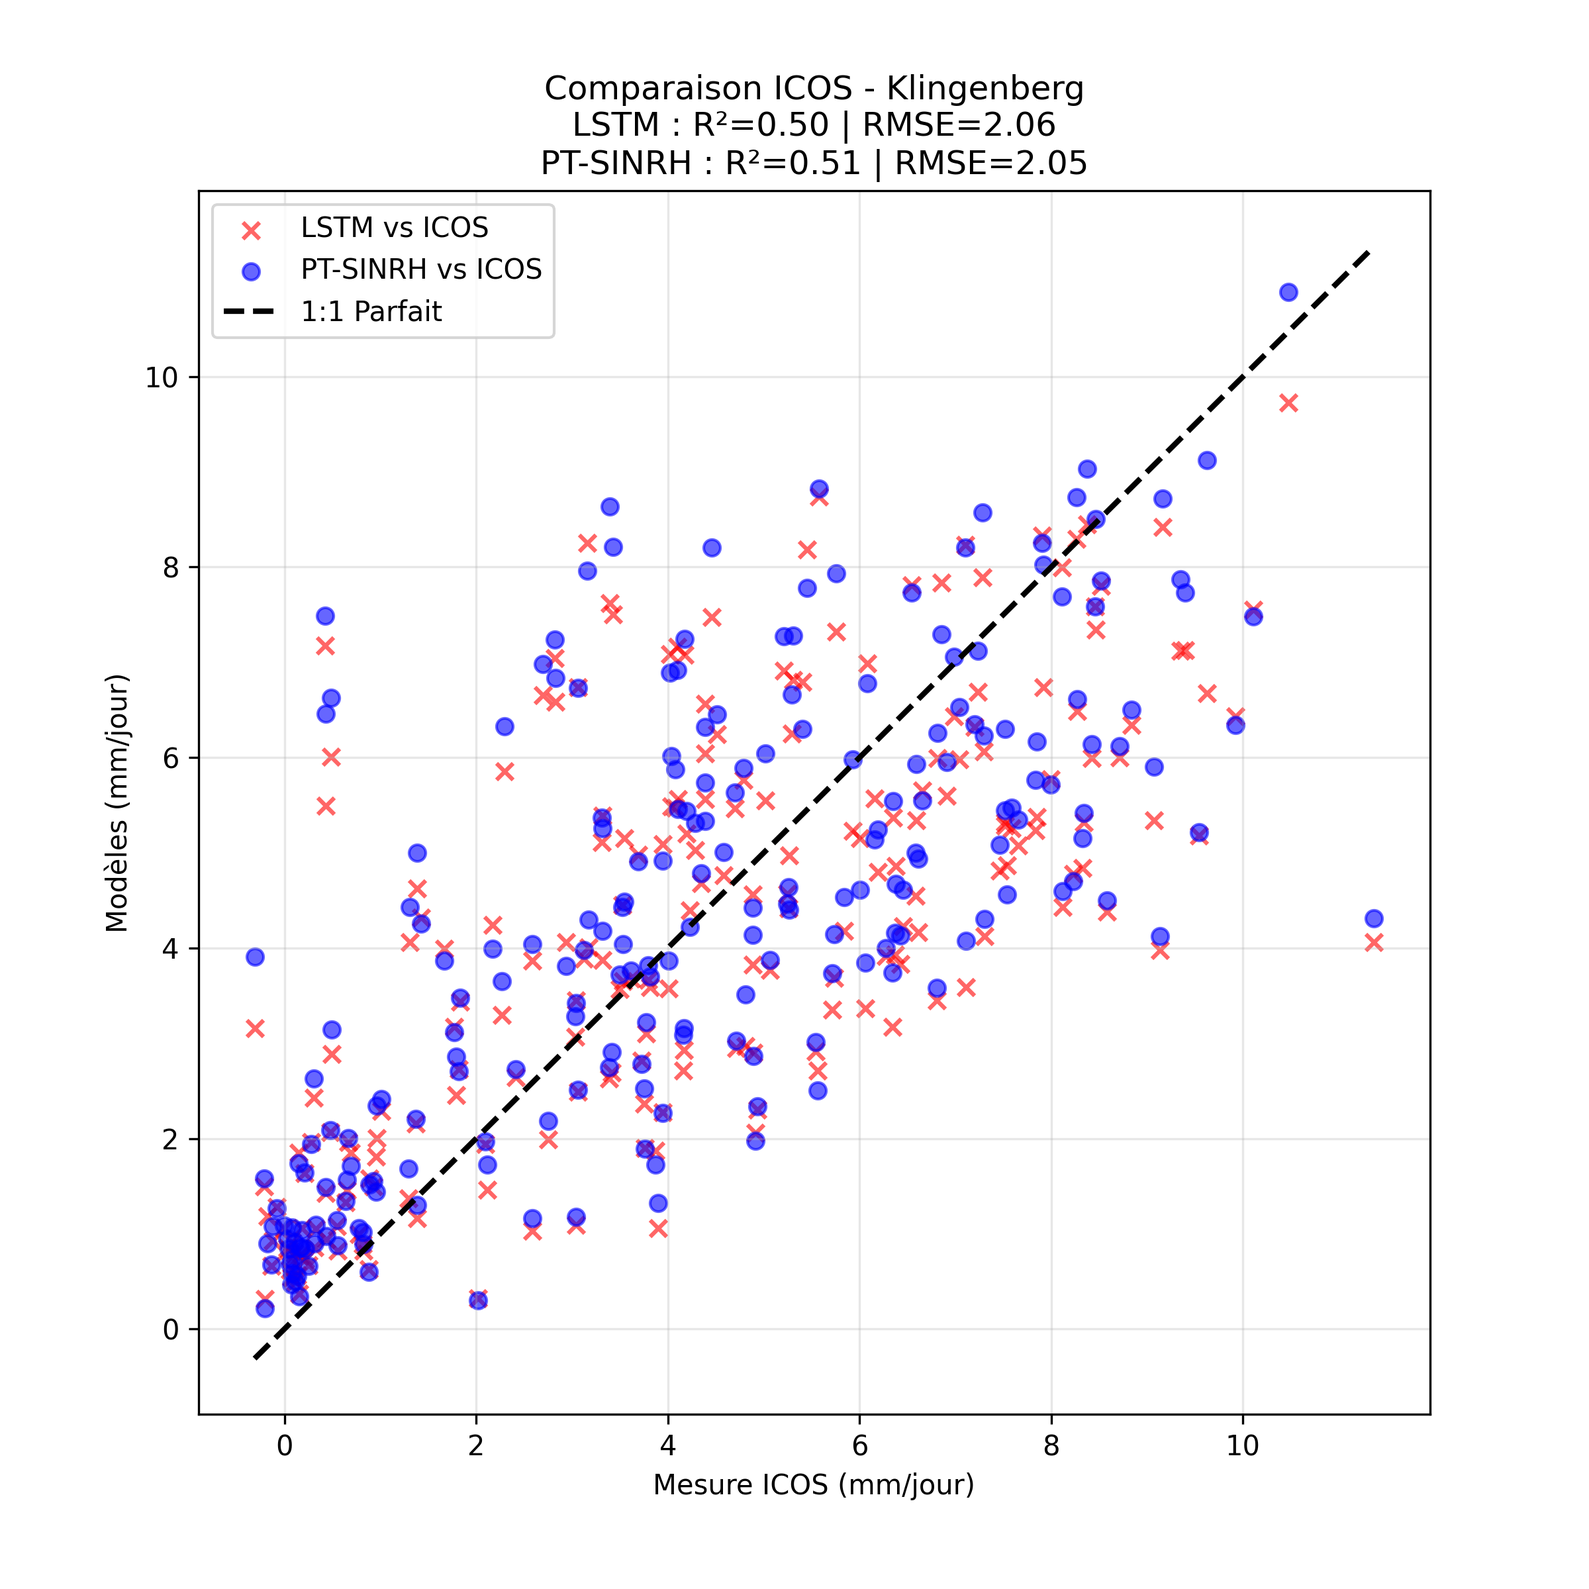
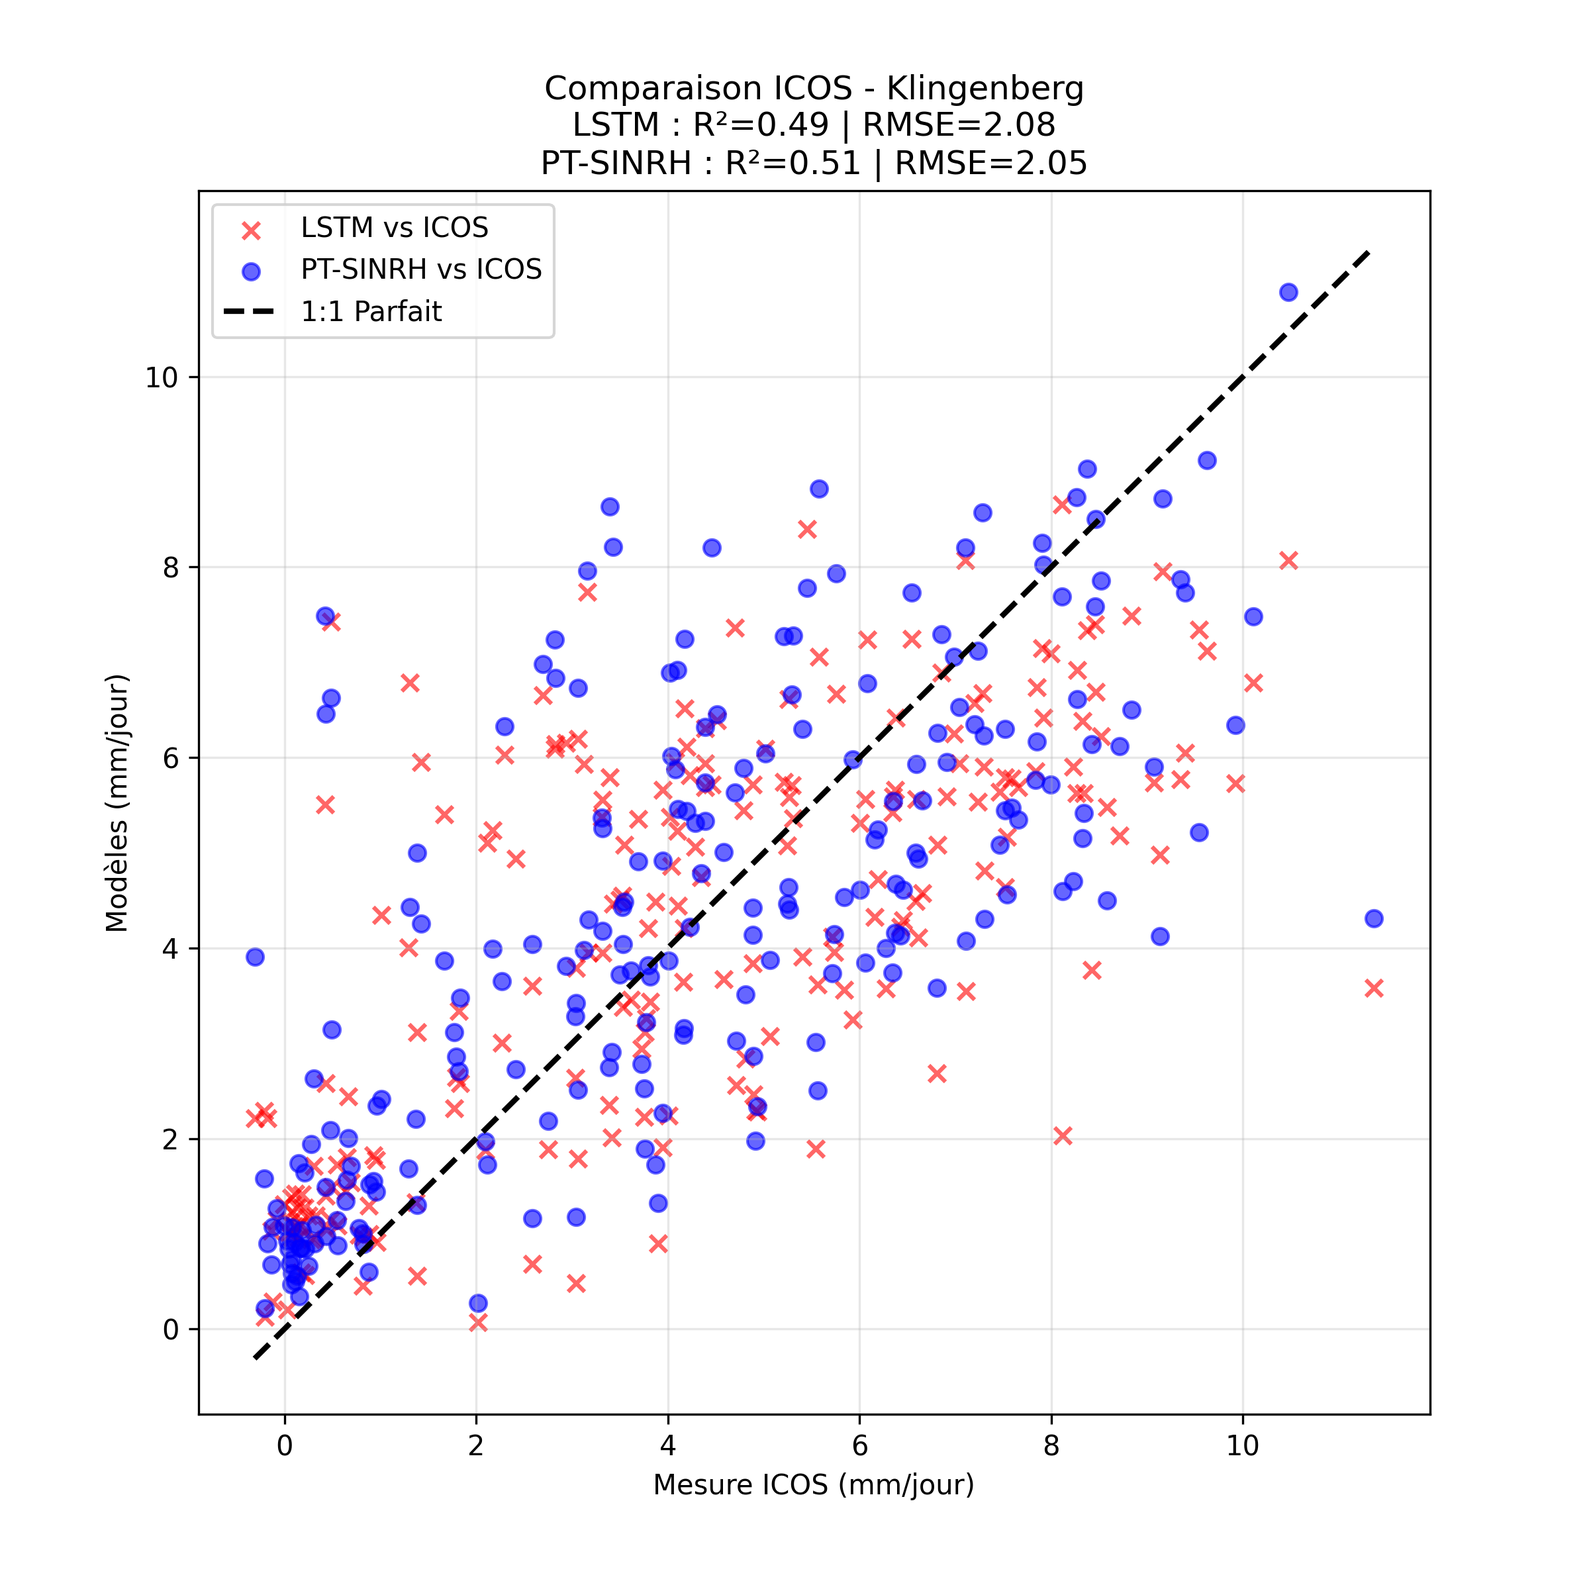
feat: implement LSTM training and evaluation pipeline with automated plotting and configuration updates

diff --git a/Traitement/LSTM_Forecasting/dataset_prep.py b/Traitement/LSTM_Forecasting/dataset_prep.py
@@ -49,7 +49,8 @@ def get_homogeneous_points(ndvi_path, center_r, center_c, num_points):
     variance[center_r, center_c] = np.inf
     
     # 1. On sélectionne un large pool des pixels les plus purs
-    pool_size = max((num_points - 1) * 20, 400)
+    # Tolérance de variance augmentée (pool plus grand)
+    pool_size = max((num_points - 1) * 100, 2000)
     flat_indices = np.argsort(variance, axis=None)[:pool_size]
     
     valid_candidates = []
@@ -113,9 +114,10 @@ def build_continuous_dataset(site, num_points=15, start_year="2021", end_year="2
                 if date_str not in dict_dates: dict_dates[date_str] = {}
                 if "NDVI" in f: dict_dates[date_str]['ndvi'] = os.path.join(tif_folder, f)
                 if "SAVI" in f: dict_dates[date_str]['savi'] = os.path.join(tif_folder, f)
+                if "NDWI" in f: dict_dates[date_str]['ndwi'] = os.path.join(tif_folder, f)
             
-    # Filtre uniquement les jours ayant NDVI ET SAVI
-    valid_dates = {d: p for d, p in dict_dates.items() if 'ndvi' in p and 'savi' in p}
+    # Filtre uniquement les jours ayant NDVI, SAVI et NDWI
+    valid_dates = {d: p for d, p in dict_dates.items() if 'ndvi' in p and 'savi' in p and 'ndwi' in p}
     
     if not valid_dates:
         print(f"[{site}] Attention, aucune donnée satellite trouvée.")
@@ -138,7 +140,7 @@ def build_continuous_dataset(site, num_points=15, start_year="2021", end_year="2
     sparse_data = []
     for date_str, paths in valid_dates.items():
         try:
-            with rasterio.open(paths['ndvi']) as src_ndvi, rasterio.open(paths['savi']) as src_savi:
+            with rasterio.open(paths['ndvi']) as src_ndvi, rasterio.open(paths['savi']) as src_savi, rasterio.open(paths['ndwi']) as src_ndwi:
                 transform = src_ndvi.transform
                 crs = src_ndvi.crs
                 
@@ -150,6 +152,7 @@ def build_continuous_dataset(site, num_points=15, start_year="2021", end_year="2
 
                 ndvi_arr = src_ndvi.read(1)
                 savi_arr = src_savi.read(1)
+                ndwi_arr = src_ndwi.read(1)
                 
                 for pt_id, (x_p, y_p) in enumerate(geo_coords):
                     if transformer_reproj:
@@ -166,7 +169,8 @@ def build_continuous_dataset(site, num_points=15, start_year="2021", end_year="2
                             'Point_ID': pt_id,
                             'Date': pd.to_datetime(date_str),
                             'NDVI': ndvi_arr[r, c],
-                            'SAVI': savi_arr[r, c]
+                            'SAVI': savi_arr[r, c],
+                            'NDWI': ndwi_arr[r, c]
                         })
         except Exception as e:
             print(f"Erreur sur {date_str}: {e}")
@@ -183,9 +187,10 @@ def build_continuous_dataset(site, num_points=15, start_year="2021", end_year="2
         # Filtrage strict
         df_pt['NDVI'] = np.where((df_pt['NDVI'] < -1) | (df_pt['NDVI'] > 1), np.nan, df_pt['NDVI'])
         df_pt['SAVI'] = np.where((df_pt['SAVI'] < -1) | (df_pt['SAVI'] > 1), np.nan, df_pt['SAVI'])
+        df_pt['NDWI'] = np.where((df_pt['NDWI'] < -1) | (df_pt['NDWI'] > 1), np.nan, df_pt['NDWI'])
         
         # IQR stat
-        for col in ['NDVI', 'SAVI']:
+        for col in ['NDVI', 'SAVI', 'NDWI']:
             Q1 = df_pt[col].quantile(0.25)
             Q3 = df_pt[col].quantile(0.75)
             IQR = Q3 - Q1
@@ -220,8 +225,28 @@ def build_continuous_dataset(site, num_points=15, start_year="2021", end_year="2
         'Rn (W/m²)': 'mean', 'R_s_down (W/m²)': 'mean', 'Pa (kPa)': 'mean'
     }).reset_index()
     
-    # 3. Fusionner ERA5 et SAT (On merge sur la date pour CHAQUE point)
+    # 2.5 Chargement de Open-Meteo (Prévisions)
+    openmeteo_path = os.path.join(OUTPUT_DIR, "Extraction", "OpenMeteo", f"donnees_openmeteo_{site}.csv")
+    if not os.path.exists(openmeteo_path):
+        print(f"Attention, fichier Open-Meteo introuvable pour {site}.")
+        return pd.DataFrame()
+        
+    df_om = pd.read_csv(openmeteo_path)
+    df_om['TIMESTAMP'] = pd.to_datetime(df_om['TIMESTAMP'])
+    df_om['Date'] = df_om['TIMESTAMP'].dt.normalize()
+    
+    df_om_daily = df_om.groupby('Date').agg({
+        'Ta (°C)': 'mean', 'RH (%)': 'mean'
+    }).reset_index()
+    
+    df_om_daily = df_om_daily.rename(columns={
+        'Ta (°C)': 'Ta_fcst',
+        'RH (%)': 'RH_fcst'
+    })
+    
+    # 3. Fusionner ERA5, SAT et Open-Meteo (Inner join pour garantir la présence des prévisions)
     df_full = pd.merge(df_sat_clean, df_era_daily, on='Date', how='inner')
+    df_full = pd.merge(df_full, df_om_daily, on='Date', how='inner')
     df_full = df_full.set_index('Date').sort_index()
     df_full = df_full.loc[f"{start_year}-01-01":f"{end_year}-12-31"].copy()
     
@@ -274,16 +299,16 @@ def build_continuous_dataset(site, num_points=15, start_year="2021", end_year="2
     
     return df_full.dropna()
 
-def create_sequences(df, lookback=14, forecast=7, add_noise=False):
+def create_sequences(df, lookback=14, forecast=7):
     """
     Crée les fenêtres glissantes d'Entraînement.
     Le groupement est fait par Point_ID pour ne jamais mélanger les pixels.
-    Si add_noise=True, on injecte un bruit croissant sur les variables du décodeur
-    (T_air, Rn, RH) pour simuler l'incertitude des prévisions météorologiques.
+    On utilise les données ERA5 (Ta, RH) pour l'encodeur (passé) 
+    et les prévisions Open-Meteo (Ta_fcst, RH_fcst) pour le décodeur (futur).
     """
     X_enc, X_dec, Y = [], [], []
-    features_enc = ['NDVI', 'SAVI', 'PT_SINRH_ET', 'Ta', 'Rn', 'RH', 'DOY_sin', 'DOY_cos']
-    features_dec = ['Ta', 'Rn', 'RH', 'DOY_sin', 'DOY_cos']
+    features_enc = ['NDVI', 'SAVI', 'NDWI', 'PT_SINRH_ET', 'Ta', 'RH']
+    features_dec = ['Ta_fcst', 'RH_fcst']
     
     # Profils d'incertitude (écart-type croissant avec l'horizon)
     sigma_Ta = np.linspace(0.5, 3.5, forecast) # erreur en °C
@@ -298,26 +323,8 @@ def create_sequences(df, lookback=14, forecast=7, add_noise=False):
         
         for i in range(len(df_pt) - lookback - forecast + 1):
             x_e = arr_enc[i : i + lookback]
-            x_d = np.copy(arr_dec[i + lookback : i + lookback + forecast])
+            x_d = arr_dec[i + lookback : i + lookback + forecast]
             y = arr_y[i + lookback : i + lookback + forecast]
-            
-            if add_noise:
-                # Sauvegarde du signe de Rn pour éviter les inversions physiques
-                rn_was_positive = x_d[:, 1] > 0
-                
-                # Ajout de bruit gaussien
-                noise_Ta = np.random.normal(0, sigma_Ta)
-                noise_Rn = np.random.normal(0, sigma_Rn_pct * np.abs(x_d[:, 1]))
-                noise_RH = np.random.normal(0, sigma_RH)
-                
-                x_d[:, 0] += noise_Ta
-                
-                # Appliquer le bruit sur Rn et s'assurer qu'un Rn positif reste positif
-                noisy_rn = x_d[:, 1] + noise_Rn
-                x_d[:, 1] = np.where(rn_was_positive, np.maximum(0, noisy_rn), noisy_rn)
-                
-                # L'humidité relative doit strictement rester entre 0 et 100%
-                x_d[:, 2] = np.clip(x_d[:, 2] + noise_RH, 0, 100)
             
             X_enc.append(x_e)
             X_dec.append(x_d)

diff --git a/Traitement/LSTM_Forecasting/plot_predictions.py b/Traitement/LSTM_Forecasting/plot_predictions.py
@@ -72,6 +72,8 @@ def plot_predictions():
     global_icos_pt = []
 
     for site in SITES_PILOTES.keys():
+        if site in ["Bondville", "Goodwin_Creek"]:
+            continue
         print(f"\n==========================================")
         print(f"Évaluation sur le site : {site}")
         print(f"==========================================")
@@ -81,7 +83,7 @@ def plot_predictions():
             print(f"Avertissement: Pas de données pour 2024 sur {site}.")
             continue
             
-        X_enc, X_dec, Y_true = create_sequences(df_val, lookback=14, forecast=7, add_noise=False)
+        X_enc, X_dec, Y_true = create_sequences(df_val, lookback=14, forecast=7)
         if len(X_enc) == 0:
             print(f"Avertissement: Séquences vides pour {site}.")
             continue
@@ -121,7 +123,7 @@ def plot_predictions():
         axes = axes.flatten()
         for i, idx in enumerate(indices):
             ax = axes[i]
-            past_y = X_enc[idx, :, 2]
+            past_y = X_enc[idx, :, 3]
             true_y = Y_true[idx, :, 0]
             pred_y = predictions[idx, :, 0]
             time_past = range(-14, 0)
@@ -208,6 +210,22 @@ def plot_predictions():
             plt.grid(True, alpha=0.3)
             plt.savefig(os.path.join(out_dir_eval, "3_Scatter_Plot_vs_ICOS.png"), dpi=300)
             plt.close()
+            
+            # 4. Histogramme des Résidus
+            residus_lstm = df_eval_clean['ET_LSTM_Pred'] - df_eval_clean['ET_Vrai_ICOS']
+            residus_pt = df_eval_clean['ET_PT_SINRH'] - df_eval_clean['ET_Vrai_ICOS']
+            
+            plt.figure(figsize=(8, 6))
+            plt.hist(residus_lstm, bins=20, alpha=0.5, color='red', label='Résidus LSTM')
+            plt.hist(residus_pt, bins=20, alpha=0.5, color='blue', label='Résidus PT-SINRH')
+            plt.axvline(x=0, color='k', linestyle='--', lw=2)
+            plt.title(f"Histogramme des Résidus vs ICOS - {site}")
+            plt.xlabel("Erreur (Prédiction - ICOS) [mm/jour]")
+            plt.ylabel("Fréquence")
+            plt.legend()
+            plt.grid(True, alpha=0.3)
+            plt.savefig(os.path.join(out_dir_eval, "4_Histogramme_Residus.png"), dpi=300)
+            plt.close()
 
     print(f"\n==========================================")
     print(f"Génération des Graphiques Globaux")
@@ -245,6 +263,22 @@ def plot_predictions():
         plt.legend()
         plt.grid(True, alpha=0.3)
         plt.savefig(os.path.join(out_dir_global, "GLOBAL_Scatter_vs_ICOS.png"), dpi=300)
+        plt.close()
+        
+        # 4. GLOBAL Histogramme des Résidus
+        global_residus_lstm = np.array(global_icos_pred) - np.array(global_icos_true)
+        global_residus_pt = np.array(global_icos_pt) - np.array(global_icos_true)
+        
+        plt.figure(figsize=(8, 6))
+        plt.hist(global_residus_lstm, bins=50, alpha=0.5, color='red', label='Résidus LSTM')
+        plt.hist(global_residus_pt, bins=50, alpha=0.5, color='blue', label='Résidus PT-SINRH')
+        plt.axvline(x=0, color='k', linestyle='--', lw=2)
+        plt.title("GLOBAL Histogramme des Résidus vs ICOS")
+        plt.xlabel("Erreur (Prédiction - ICOS) [mm/jour]")
+        plt.ylabel("Fréquence")
+        plt.legend()
+        plt.grid(True, alpha=0.3)
+        plt.savefig(os.path.join(out_dir_global, "GLOBAL_Histogramme_Residus.png"), dpi=300)
         plt.close()
         
     print("Terminé ! Graphiques sauvegardés dans Outputs/Analyses_Graphiques/LSTM_Evaluation/")

diff --git a/Extraction/OpenMeteo/extraction_openmeteo.py b/Extraction/OpenMeteo/extraction_openmeteo.py
@@ -1,0 +1,95 @@
+import os
+import sys
+import logging
+import requests
+import pandas as pd
+import numpy as np
+
+# Adjust path to import config
+sys.path.append(os.path.dirname(os.path.dirname(os.path.dirname(os.path.abspath(__file__)))))
+from config import OUTPUT_DIR, SITES_PILOTES
+
+# --- Configuration du Logger ---
+log_dir = os.path.join(os.path.dirname(os.path.dirname(os.path.dirname(os.path.abspath(__file__)))), "Logs")
+os.makedirs(log_dir, exist_ok=True)
+logging.basicConfig(
+    level=logging.INFO,
+    format="%(asctime)s - %(levelname)s - %(message)s",
+    handlers=[
+        logging.FileHandler(os.path.join(log_dir, "extraction_openmeteo.log"), encoding='utf-8'),
+        logging.StreamHandler(sys.stdout)
+    ]
+)
+LOGGER = logging.getLogger(__name__)
+
+# --- Constantes ---
+API_URL = "https://historical-forecast-api.open-meteo.com/v1/forecast"
+START_DATE = "2022-01-01"
+END_DATE = "2025-12-31"
+
+def fetch_openmeteo_forecast(site_name, lat, lon):
+    """
+    Récupère les prévisions météorologiques historiques pour un site donné.
+    """
+    LOGGER.info(f"   📥 Extraction Open-Meteo pour {site_name} ({lat}, {lon})...")
+    
+    # Requête de l'API
+    params = {
+        "latitude": lat,
+        "longitude": lon,
+        "start_date": START_DATE,
+        "end_date": END_DATE,
+        "hourly": ["temperature_2m", "relative_humidity_2m", "wind_speed_10m", "surface_pressure", "shortwave_radiation"],
+        "timezone": "UTC"
+    }
+    
+    response = requests.get(API_URL, params=params)
+    
+    if response.status_code != 200:
+        LOGGER.error(f"❌ Erreur de l'API Open-Meteo pour {site_name}: {response.text}")
+        return None
+        
+    data = response.json()
+    
+    if "hourly" not in data:
+        LOGGER.error(f"❌ Pas de données horaires trouvées pour {site_name}")
+        return None
+        
+    hourly = data["hourly"]
+    
+    # Création du DataFrame
+    df = pd.DataFrame({
+        "TIMESTAMP": pd.to_datetime(hourly["time"]),
+        "Ta (°C)": hourly["temperature_2m"],
+        "RH (%)": hourly["relative_humidity_2m"],
+        "u (m/s)": hourly["wind_speed_10m"],
+        "surface_pressure_hPa": hourly["surface_pressure"],
+        "R_s_down (W/m²)": hourly["shortwave_radiation"]
+    })
+    
+    # Conversion de pression (hPa vers kPa pour correspondre à ERA5)
+    df["Pa (kPa)"] = df["surface_pressure_hPa"] / 10.0
+    df = df.drop(columns=["surface_pressure_hPa"])
+    
+    # Retirer les jours incomplets ou futurs s'il n'y a pas de prévisions
+    df = df.dropna()
+    
+    return df
+
+def main():
+    LOGGER.info("🚀 Démarrage de l'extraction Open-Meteo Historical Forecast")
+    
+    out_folder = os.path.join(OUTPUT_DIR, "Extraction", "OpenMeteo")
+    os.makedirs(out_folder, exist_ok=True)
+    
+    for site, coords in SITES_PILOTES.items():
+        df = fetch_openmeteo_forecast(site, coords["lat"], coords["lon"])
+        if df is not None and not df.empty:
+            out_file = os.path.join(out_folder, f"donnees_openmeteo_{site}.csv")
+            df.to_csv(out_file, index=False)
+            LOGGER.info(f"      ✅ Données sauvegardées dans {out_file} ({len(df)} lignes)")
+            
+    LOGGER.info("🎯 Extraction terminée.")
+
+if __name__ == "__main__":
+    main()

diff --git a/Traitement/LSTM_Forecasting/feature_importance.py b/Traitement/LSTM_Forecasting/feature_importance.py
@@ -42,9 +42,9 @@ def compute_feature_importance():
         print(f"❌ Modèle introuvable : {model_path}")
         return
         
-    # Noms des features (Doit correspondre au modèle sauvegardé qui prenait 6 et 5 features)
-    enc_features = ['NDVI', 'SAVI', 'PT_SINRH_ET', 'Ta', 'Rn', 'RH']
-    dec_features = ['Ta', 'Rn', 'RH', 'DOY_sin', 'DOY_cos']
+    # Noms des features (Doit correspondre au modèle sauvegardé qui prenait 6 et 2 features)
+    enc_features = ['NDVI', 'SAVI', 'NDWI', 'PT_SINRH_ET', 'Ta', 'RH']
+    dec_features = ['Ta_fcst', 'RH_fcst']
     
     # 1. Charger l'échantillon de données (Année 2024 de Gebesee par exemple)
     print("Chargement des données de test (Gebesee 2024)...")
@@ -53,13 +53,13 @@ def compute_feature_importance():
         print("❌ Aucune donnée trouvée pour 2024.")
         return
         
-    xe, xd, _ = create_sequences(df_val, lookback=LSTM_LOOKBACK, forecast=LSTM_FORECAST)
+    xe, xd, _ = create_sequences(df_val, lookback=LSTM_LOOKBACK, forecast=LSTM_FORECAST, add_noise=True)
     
     # Prendre un échantillon pour ne pas exploser la RAM (ex: 500 séquences)
     np.random.seed(42)
     sample_indices = np.random.choice(len(xe), min(500, len(xe)), replace=False)
     xe_sample = xe[sample_indices, :, :6]  # On garde seulement les 6 premières features pour correspondre au modèle
-    xd_sample = xd[sample_indices, :, :5]  # Idem, 5 premières pour le decodeur
+    xd_sample = xd[sample_indices, :, :2]  # Idem, 2 premières pour le decodeur
     
     # 2. Normalisation (Z-Score)
     # Pour Captum, l'idéal est de normaliser avec les mêmes stats que le modèle

diff --git a/Traitement/LSTM_Forecasting/train_lstm.py b/Traitement/LSTM_Forecasting/train_lstm.py
@@ -112,7 +112,7 @@ def main():
         # Train (2021-2022) - Avec bruit
         df_train = build_continuous_dataset(site, num_points=15, start_year="2021", end_year="2022")
         if not df_train.empty:
-            xe, xd, y = create_sequences(df_train, lookback=LSTM_LOOKBACK, forecast=LSTM_FORECAST, add_noise=True)
+            xe, xd, y = create_sequences(df_train, lookback=LSTM_LOOKBACK, forecast=LSTM_FORECAST)
             X_enc_train.append(xe)
             X_dec_train.append(xd)
             Y_train.append(y)
@@ -120,7 +120,7 @@ def main():
         # Validation (2023) - Pour l'Early Stopping (Sans bruit)
         df_val = build_continuous_dataset(site, num_points=15, start_year="2023", end_year="2023")
         if not df_val.empty:
-            xe, xd, y = create_sequences(df_val, lookback=LSTM_LOOKBACK, forecast=LSTM_FORECAST, add_noise=False)
+            xe, xd, y = create_sequences(df_val, lookback=LSTM_LOOKBACK, forecast=LSTM_FORECAST)
             X_enc_val.append(xe)
             X_dec_val.append(xd)
             Y_val.append(y)
@@ -128,7 +128,7 @@ def main():
         # Test (2024) - Pour la performance finale (Sans bruit)
         df_test = build_continuous_dataset(site, num_points=15, start_year="2024", end_year="2024")
         if not df_test.empty:
-            xe, xd, y = create_sequences(df_test, lookback=LSTM_LOOKBACK, forecast=LSTM_FORECAST, add_noise=False)
+            xe, xd, y = create_sequences(df_test, lookback=LSTM_LOOKBACK, forecast=LSTM_FORECAST)
             X_enc_test.append(xe)
             X_dec_test.append(xd)
             Y_test.append(y)

diff --git a/config.py b/config.py
@@ -54,8 +54,8 @@ SITES_PILOTES = {
    "Grignon": {"lon": 1.952, "lat":  48.844},
    "Lamasquere": {"lon": 1.237878, "lat": 43.496437},
    # --- Stations NOAA SURFRAD ---
-   "Bondville": {"lon": -88.37309, "lat": 40.05192},
-   "Goodwin_Creek": {"lon": -89.8729, "lat": 34.25473},
+   #"Bondville": {"lon": -88.37309, "lat": 40.05192},
+   #"Goodwin_Creek": {"lon": -89.8729, "lat": 34.25473},
 }
 
 # --- Paramètres TTME (Long & Singh, 2012) ---
@@ -111,15 +111,15 @@ DATE_FIN_VISU = "2024-01-01"
 
 # --- Pipeline : étapes à exécuter via main.py ---
 PIPELINE_STEPS = {
-    "extraction_landsat": False,
+    "extraction_landsat": True,
     "extraction_ecostress": False,
-    "extraction_sentinel": True,
+    "extraction_sentinel": False,
     "extraction_sentinel3": False,
     "extraction_paires_eco_s2": False,
     "extraction_paires_s3_s2": False,
-    "transform_landsat": False,
+    "transform_landsat": True,
     "transform_ecostress": False,
-    "transform_sentinel": True,
+    "transform_sentinel": False,
     "transform_sentinel3": False,
     "sharpening_dms_landsat": False,
     "sharpening_tsharp_landsat": False,
